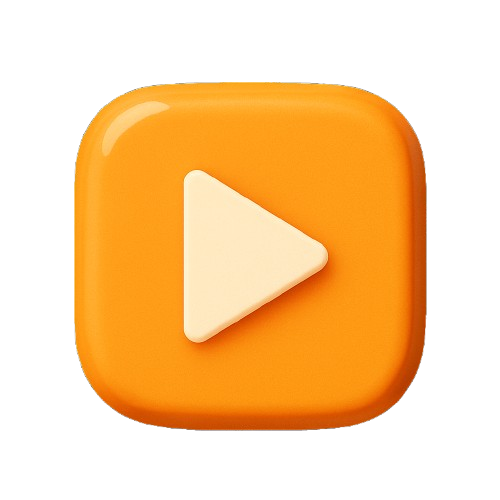
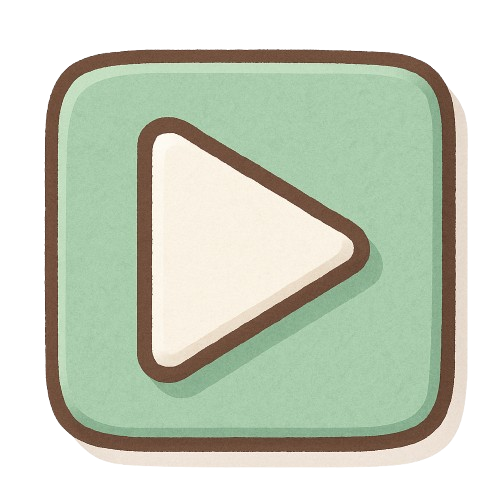
Feature: 설정 UI 및 기능 구현 (#33)
* Feature: 설정 UI 및 기능 구현
* Refactor: 로컬 상태 일부를 전역 상태로 이전하고 컴포넌트 역할 재정의

diff --git a/src/components/DominoHUD/DominoHUD.jsx b/src/components/DominoHUD/DominoHUD.jsx
@@ -1,20 +1,20 @@
+import { useState } from "react";
+
 import GuideToast from "@/components/DominoHUD/GuideToast/GuideToast";
 
 import playButton from "/images/play_button.png";
+import settingButton from "/images/setting_button.png";
 import resetButton from "/images/reset_button.png";
 
 import SidePanel from "@/components/DominoHUD/SidePanel/SidePanel";
+import SettingModal from "@/components/Setting/SettingModal";
 import MODE from "@/constants/mode";
 import useDominoStore from "@/store/useDominoStore";
 import useSimulationStore from "@/store/useSimulationStore";
 
-const DominoHUD = ({
-  rotationSensitivity,
-  onChangeSensitivity,
-  updateSimulationState,
-  isOpenGuideToastVisible,
-}) => {
+const DominoHUD = ({ updateSimulationState, isOpenGuideToastVisible }) => {
   const { simulationMode, countdownNumber } = useSimulationStore();
+  const [isSettingModalOpen, setIsSettingModalOpen] = useState(false);
   const setSelectedDomino = useDominoStore((state) => state.setSelectedDomino);
 
   const isSimulating = simulationMode === MODE.SIMULATING;
@@ -29,30 +29,38 @@ const DominoHUD = ({
     return order[currentStep + 1];
   };
 
+  const handleCloseModal = () => {
+    setIsSettingModalOpen(false);
+  };
+
   return (
     <>
-      <input
-        id="sensitivity"
-        type="range"
-        min={1}
-        max={50}
-        step={0.01}
-        value={rotationSensitivity}
-        onChange={onChangeSensitivity}
-        className="fixed z-50 bottom-0 w-full"
-      />
-      {simulationMode !== MODE.COUNTDOWN && (
+      <div className="fixed top-[10px] left-[10px] z-50 flex">
         <button
-          className="fixed z-50 cursor-pointer w-[60px] h-[60px]"
-          onClick={() => updateSimulationState(getNextMode())}
-          onMouseOver={() => setSelectedDomino(null)}
+          onClick={() => setIsSettingModalOpen(true)}
+          className="w-[60px] h-[60px] cursor-pointer"
         >
           <img
-            src={isSimulating ? resetButton : playButton}
-            draggable="false"
+            src={settingButton}
+            alt="설정"
+            className="w-full h-full"
           />
         </button>
-      )}
+
+        {simulationMode !== "COUNTDOWN" && (
+          <button
+            onMouseOver={() => setSelectedDomino(null)}
+            onClick={() => updateSimulationState(getNextMode())}
+            className="w-[60px] h-[60px] cursor-pointer"
+          >
+            <img
+              src={isSimulating ? resetButton : playButton}
+              className="w-full h-full"
+              draggable="false"
+            />
+          </button>
+        )}
+      </div>
 
       {simulationMode === MODE.COUNTDOWN && (
         <span className="fixed z-50 text-[200px] left-1/2 top-1/2 -translate-x-1/2 -translate-y-1/2 font-bold">
@@ -62,6 +70,8 @@ const DominoHUD = ({
 
       <SidePanel />
       {isOpenGuideToastVisible && <GuideToast />}
+
+      {isSettingModalOpen && <SettingModal closeModal={handleCloseModal} />}
     </>
   );
 };

diff --git a/src/pages/DominoScene.jsx b/src/pages/DominoScene.jsx
@@ -9,19 +9,16 @@ import useDominoControls from "@/hooks/useDominoControls";
 import useDominoSimulation from "@/hooks/useDominoSimulation";
 import useToastControls from "@/hooks/useToastControls";
 import useDominoStore from "@/store/useDominoStore";
+import useSettingStore from "@/store/useSettingStore";
 
 const DominoScene = () => {
-  const [rotationSensitivity, setRotationSensitivity] = useState(1);
+  const [resetKey, setResetKey] = useState(0);
+
   const dominos = useDominoStore((state) => state.dominos);
+  const rotationSensitivity = useSettingStore((state) => state.rotationSensitivity);
 
   const { isOpenGuideToastVisible, openGuideToast, closeGuideToast, setIsGuideToastVisible } =
     useToastControls();
-
-  useDominoControls({ onToggleGuideToast: (visible) => setIsGuideToastVisible(visible) });
-
-  const handleRotationSensitivity = (e) => {
-    setRotationSensitivity(e.target.value);
-  };
 
   const changeResetKey = () => {
     setResetKey((prev) => prev + 1);
@@ -30,14 +27,12 @@ const DominoScene = () => {
   const { dominoRefs, updateSimulationState, readyDominoSimulation } =
     useDominoSimulation(changeResetKey);
 
-  const [resetKey, setResetKey] = useState(0);
+  useDominoControls((visible) => setIsGuideToastVisible(visible));
 
   return (
     <>
       <DominoHUD
         updateSimulationState={updateSimulationState}
-        rotationSensitivity={rotationSensitivity}
-        onChangeSensitivity={handleRotationSensitivity}
         isOpenGuideToastVisible={isOpenGuideToastVisible}
       />
       <DominoCanvas rotationSensitivity={rotationSensitivity}>
@@ -56,14 +51,14 @@ const DominoScene = () => {
                 dominoInfo={domino.objectInfo}
                 position={domino.position}
                 key={domino.id}
-                onPointerOver={() => openGuideToast(domino.id)}
+                onPointerOver={(event) => openGuideToast(event, domino.id)}
                 onPointerOut={closeGuideToast}
                 onClick={(event) => readyDominoSimulation(event, index)}
                 opacity={domino.opacity}
               />
             </RigidBody>
           ))}
-        <Ground type="wood_dark" />
+        <Ground />
       </DominoCanvas>
     </>
   );

diff --git a/src/components/Setting/SettingModal.jsx b/src/components/Setting/SettingModal.jsx
@@ -1,0 +1,64 @@
+import tileGrass from "/images/tile/grass.png";
+import tileWoodDark from "/images/tile/wood_dark.png";
+import tileWoodLight from "/images/tile/wood_light.png";
+
+import useSettingStore from "@/store/useSettingStore";
+import SettingGroup from "@/components/Setting/SettingGroup";
+import GroundTypeButton from "@/components/GroundTypeButton/GroundTypeButton";
+import ModalOverlay from "@/components/ModalOverlay/ModalOverlay";
+
+const groundOptions = [
+  { type: "grass", image: tileGrass },
+  { type: "wood_dark", image: tileWoodDark },
+  { type: "wood_light", image: tileWoodLight },
+];
+
+const SettingModal = ({ closeModal }) => {
+  const { rotationSensitivity, setRotationSensitivity, groundType, setGroundType } =
+    useSettingStore();
+
+  return (
+    <ModalOverlay closeModal={closeModal}>
+      <section>
+        <SettingGroup title="민감도">
+          <input
+            id="sensitivity"
+            type="range"
+            min={1}
+            max={50}
+            step={0.01}
+            value={rotationSensitivity}
+            onChange={(e) => setRotationSensitivity(e.target.value)}
+            className="w-full mb-[16px] appearance-none h-[8px] rounded bg-gray-200 custom-slider"
+          />
+        </SettingGroup>
+        <SettingGroup title="음량">
+          <input
+            id="volume"
+            type="range"
+            value={0}
+            disabled
+            className="w-full mb-[16px] appearance-none h-[8px] rounded bg-gray-100 cursor-not-allowed"
+          />
+        </SettingGroup>
+
+        <SettingGroup title="배경">
+          <ul className="flex gap-[10px]">
+            {groundOptions.map(({ type, image }) => (
+              <li key={type}>
+                <GroundTypeButton
+                  type={type}
+                  image={image}
+                  selected={groundType === type}
+                  onClick={setGroundType}
+                />
+              </li>
+            ))}
+          </ul>
+        </SettingGroup>
+      </section>
+    </ModalOverlay>
+  );
+};
+
+export default SettingModal;

diff --git a/src/components/ModalOverlay/ModalOverlay.jsx b/src/components/ModalOverlay/ModalOverlay.jsx
@@ -1,6 +1,8 @@
 import { useContext, useRef } from "react";
 import { createPortal } from "react-dom";
 
+import closeButton from "/images/close_button.png";
+
 import { PortalContext } from "@/GlobalPortal";
 import useOnClickOutSide from "@/hooks/useOnClickOutSide";
 
@@ -16,13 +18,17 @@ const ModalOverlay = ({ closeModal, children }) => {
       <div className="fixed top-0 left-0 w-full h-full bg-black/50 flex justify-center items-center">
         <div
           ref={modalRef}
-          className="bg-white p-5 rounded-lg shadow"
+          className="relative bg-white pt-[50px] pr-[30px] pb-[30px] pl-[30px] rounded-lg shadow min-w-[400px]"
         >
           <button
             onClick={closeModal}
-            className="ml-auto block"
+            className="ml-auto block absolute right-[20px] top-[20px] cursor-pointer"
           >
-            X
+            <img
+              src={closeButton}
+              className="w-[30px] h-[30px]"
+              alt=""
+            />
           </button>
           {children}
         </div>

diff --git a/src/hooks/useDominoControls.jsx b/src/hooks/useDominoControls.jsx
@@ -2,14 +2,15 @@ import { useEffect } from "react";
 
 import useDominoStore from "@/store/useDominoStore";
 
-const useDominoControls = ({ onToggleGuideToast }) => {
+const useDominoControls = (onToggleGuideToast) => {
   const { dominos, setDominos, selectedDominoKey } = useDominoStore();
 
   useEffect(() => {
     const pressX = (e) => {
       if (e.key.toLowerCase() === "x") {
-        const updateDominos = [...dominos];
-        setDominos(updateDominos.filter((dominos) => dominos.id !== selectedDominoKey));
+        const updateDominos = [...dominos].filter((dominos) => dominos.id !== selectedDominoKey);
+
+        setDominos(updateDominos);
         setTimeout(() => {
           onToggleGuideToast(false);
         }, 100);

diff --git a/src/components/Ground/Ground.jsx b/src/components/Ground/Ground.jsx
@@ -4,10 +4,14 @@ import * as THREE from "three";
 import { TextureLoader } from "three";
 
 import useDominoStore from "@/store/useDominoStore";
+import useSettingStore from "@/store/useSettingStore";
 
-const Ground = ({ type }) => {
-  const floorTexture = useLoader(TextureLoader, `/images/tile/${type}.png`);
+const Ground = () => {
+  const groundType = useSettingStore((state) => state.groundType);
   const { dominos, setDominos, selectedDomino } = useDominoStore();
+
+  const floorTexture = useLoader(TextureLoader, `/images/tile/${groundType}.png`);
+
   floorTexture.wrapS = THREE.RepeatWrapping;
   floorTexture.wrapT = THREE.RepeatWrapping;
   floorTexture.repeat.set(10, 10);

diff --git a/src/index.css b/src/index.css
@@ -11,3 +11,29 @@
 canvas {
   height: 100%;
 }
+
+.custom-slider {
+  -webkit-appearance: none;
+  appearance: none;
+  width: 100%;
+  height: 8px;
+  border-radius: 9999px;
+  background-color: rgba(252, 157, 22, 0.3); /* 트랙 흰색 확정 */
+  cursor: pointer;
+}
+
+.custom-slider::-webkit-slider-thumb {
+  -webkit-appearance: none;
+  appearance: none;
+  width: 16px;
+  height: 16px;
+  background-color: #fc9d16;
+  border-radius: 50%;
+  border: 1px solid white;
+  box-shadow: 0 1px 3px rgba(0, 0, 0, 0.15);
+  transition: transform 0.2s ease;
+}
+
+.custom-slider::-moz-range-thumb:hover {
+  transform: scale(1.1);
+}

diff --git a/src/components/DominoCanvas/DominoCanvas.jsx b/src/components/DominoCanvas/DominoCanvas.jsx
@@ -1,3 +1,4 @@
+import { Environment } from "@react-three/drei";
 import { Canvas } from "@react-three/fiber";
 import { Physics } from "@react-three/rapier";
 
@@ -15,6 +16,10 @@ const DominoCanvas = ({ rotationSensitivity, children }) => {
         castShadow
         intensity={1}
         position={[5, 10, 5]}
+      />
+      <Environment
+        preset="park"
+        background
       />
       <CameraControls rotationSensitivity={rotationSensitivity} />
       <Physics>

diff --git a/src/components/GroundTypeButton/GroundTypeButton.jsx b/src/components/GroundTypeButton/GroundTypeButton.jsx
@@ -1,0 +1,16 @@
+export default function GroundTypeButton({ type, image, selected, onClick }) {
+  return (
+    <button
+      onClick={() => onClick(type)}
+      className={`w-[60px] h-[60px] rounded-[5px] ${
+        selected ? "border-[3px] border-[#fc9d16]" : ""
+      } shadow-[0_4px_6px_rgba(0,0,0,0.2)] overflow-hidden cursor-pointer`}
+    >
+      <img
+        src={image}
+        className="w-full h-full"
+        alt={type}
+      />
+    </button>
+  );
+}

diff --git a/src/hooks/useToastControls.jsx b/src/hooks/useToastControls.jsx
@@ -9,7 +9,8 @@ const useToastControls = () => {
   const setSelectedDominoKey = useDominoStore((state) => state.setSelectedDominoKey);
   const simulationMode = useSimulationStore((state) => state.simulationMode);
 
-  const openGuideToast = (key) => {
+  const openGuideToast = (event, key) => {
+    event.stopPropagation();
     if (simulationMode === MODE.EDIT) {
       setIsGuideToastVisible(true);
       setSelectedDominoKey(key);

diff --git a/src/hooks/useDominoSimulation.jsx b/src/hooks/useDominoSimulation.jsx
@@ -63,7 +63,7 @@ const useDominoSimulation = (changeResetKey) => {
 
   const startDominoSimulation = (e, i, normal) => {
     const worldNormal = new THREE.Vector3();
-    const force = normal.negate().multiplyScalar(0.9);
+    const force = normal.clone().negate().multiplyScalar(0.9);
 
     e.object.localToWorld(worldNormal.copy(normal));
     dominoRefs.current[i]?.applyImpulse(force, true);

diff --git a/src/store/useSettingStore.jsx b/src/store/useSettingStore.jsx
@@ -1,0 +1,11 @@
+import { create } from "zustand";
+
+const useSettingStore = create((set) => ({
+  groundType: "wood_dark",
+  rotationSensitivity: 1,
+
+  setGroundType: (groundType) => set(() => ({ groundType })),
+  setRotationSensitivity: (sensitivity) => set(() => ({ rotationSensitivity: sensitivity })),
+}));
+
+export default useSettingStore;
